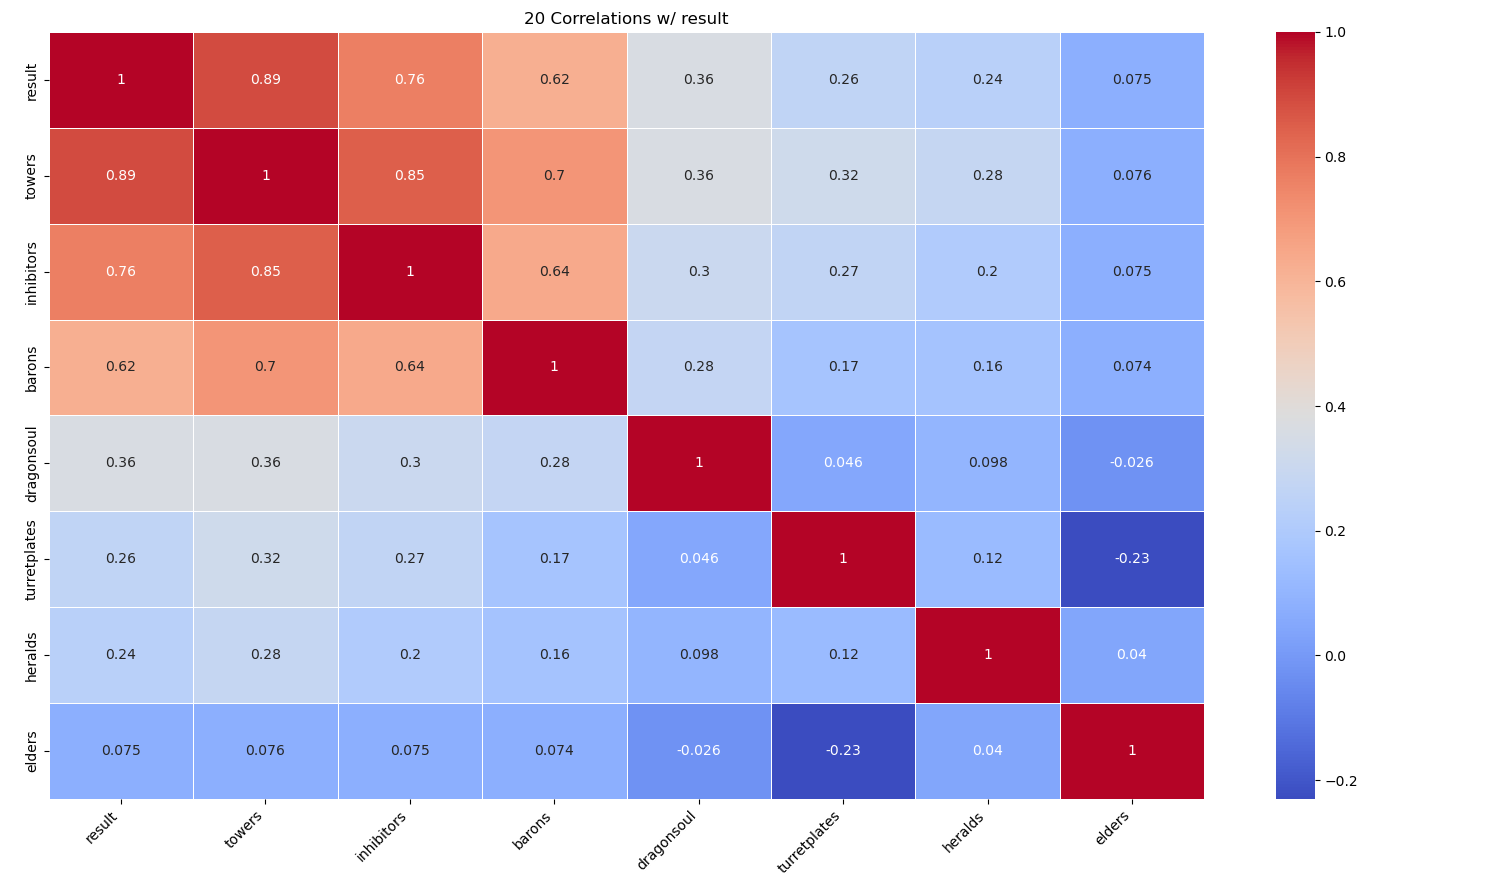
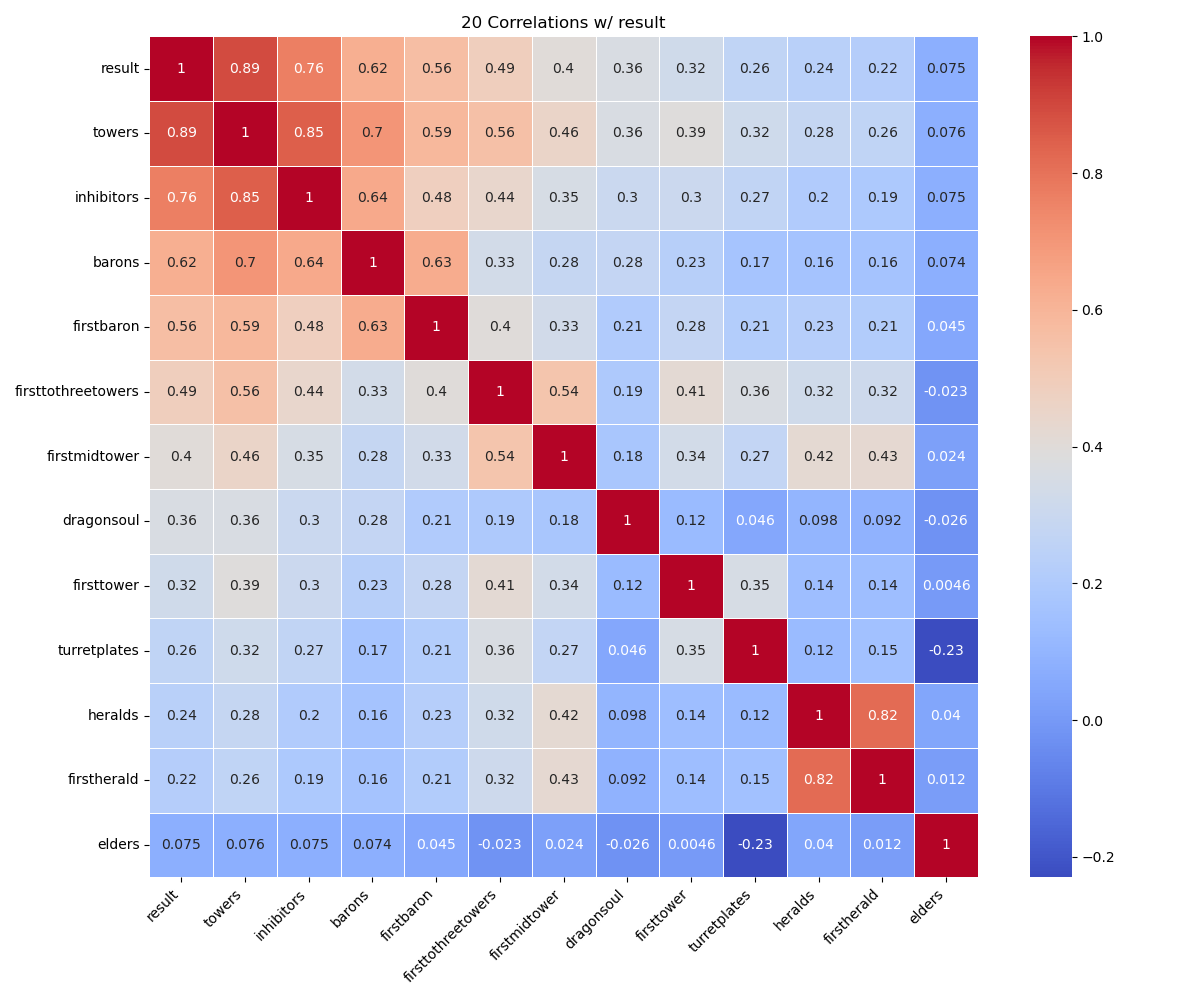
Improved obj diff feature and experimented with a weighted rolling avg

diff --git a/FeatureEng.py b/FeatureEng.py
@@ -27,6 +27,54 @@ teamdf['recent_form'] = (
       .transform(lambda x: x.shift(1).rolling(window=5).mean()))
 teamdf['recent_form'] = teamdf['recent_form'].fillna(teamdf['result'])
 
+'''teamdf['date'] = pd.to_datetime(teamdf['date'])
+teamdf = teamdf.sort_values(['teamname', 'date'])
+
+def weighted_rolling_mean(result_series, gspd_series, window=5):
+    weighted_avgs = []
+    
+    for idx in range(len(result_series)):
+        start_idx = max(0, idx - window)
+        result_window = result_series[start_idx:idx]
+        gspd_window = gspd_series[start_idx:idx]
+        
+        if len(result_window) == 0:
+            weighted_avgs.append(np.nan)
+        else:
+            weights = np.abs(gspd_window) + 1e-6
+            weighted_avg = np.average(result_window, weights=weights)
+            weighted_avgs.append(weighted_avg)
+    
+    return pd.Series(weighted_avgs, index=result_series.index)
+
+teamdf['recent_form'] = (
+    teamdf.groupby('teamname')
+          .apply(lambda group: weighted_rolling_mean(
+              group['result'].shift(1),
+              group['gspd'].shift(1),
+              window=5))
+          .reset_index(level=0, drop=True)
+)
+
+gspd_max = teamdf['gspd'].abs().max()
+
+def adjusted_result(row):
+    scale = row['gspd'] / gspd_max
+    return 0.5 + 0.5 * scale
+
+teamdf['recent_form'] = teamdf['recent_form'].fillna(
+    teamdf.apply(adjusted_result, axis=1)
+)
+
+
+teamdf['recent_form'].describe()
+
+test = teamdf['result'].corr(teamdf['recent_form'])
+print(test)
+
+0.466 with adjusted weights
+0.752 without adjusted weights'''
+
 # multikills metric
 teamdf['weighted_multikill'] = (
     1 * teamdf['doublekills'] +
@@ -34,20 +82,6 @@ teamdf['weighted_multikill'] = (
     3 * teamdf['quadrakills'] +
     4 * teamdf['pentakills']
 )
-
-
-# adjust obj control metric to look at if a team gets soul or not rather than number of dragons
-teamdf['dragonsoul'] = (teamdf['dragons'] == 4).astype(int)
-teamdf['weighted_objective_diff'] = (
-    (teamdf['dragonsoul']) * 3 + 
-    (teamdf['elders'] - teamdf['opp_elders']) * 3 +
-    (teamdf['barons'] - teamdf['opp_barons']) * 2 +
-    (teamdf['heralds'] - teamdf['opp_heralds']) +
-    (teamdf['towers'] - teamdf['opp_towers']) +
-    (teamdf['turretplates'] - teamdf['opp_turretplates']) +
-    (teamdf['inhibitors'] - teamdf['opp_inhibitors'])
-)
-
 
 # game state at 10/15
 substring = 'at15'
@@ -116,7 +150,7 @@ scaled_df['gamestateat15'] = (scaled_df['golddiffat15'] +
 # what if you scaled everything and recalculated? would there be a significant difference?
 teamdf['dragonsoul'] = (teamdf['dragons'] == 4).astype(int)
 
-temp_binary_columns = ['dragonsoul'] #next add first to three towers, first mid tower, etc.
+temp_binary_columns = ['dragonsoul', 'firsttothreetowers', 'firstmidtower', 'firsttower', 'firstherald', 'firstbaron'] 
 continuous_columns = [col for col in teamdf.select_dtypes('number').columns if col not in temp_binary_columns]
 
 scaler = StandardScaler()
@@ -132,23 +166,33 @@ weights = {
     'inhibitors': 0.76,
     'heralds': 0.24,
     'towers': 0.89,
-    'turretplates': 0.26
+    'turretplates': 0.26,
+    'firsttothreetowers': 0.49,
+    'firstmidtower': 0.40,
+    'firsttower': 0.32,
+    'firstbaron': 0.56,
+    'firstherald': 0.22
 }
 
 # Create weighted objective difference
 scaled_df['weighted_objective_diff'] = (
+    #(weights['firstmidtower'] * scaled_df['firstmidtower']) +
+    #(weights['firsttothreetowers'] * scaled_df['firsttothreetowers']) +
+    #(weights['firsttower'] * scaled_df['firsttower']) +
+    (weights['firstbaron'] * scaled_df['firstbaron']) +
+    #(weights['firstherald'] * scaled_df['firstherald']) +
     (weights['dragonsoul'] * scaled_df['dragonsoul']) +
     (weights['elders'] * (scaled_df['elders'] - scaled_df['opp_elders'])) +
     (weights['barons'] * (scaled_df['barons'] - scaled_df['opp_barons'])) +
-    (weights['heralds'] * (scaled_df['heralds'] - scaled_df['opp_heralds'])) +
+    #(weights['heralds'] * (scaled_df['heralds'] - scaled_df['opp_heralds'])) +
     (weights['towers'] * (scaled_df['towers'] - scaled_df['opp_towers'])) +
-    (weights['turretplates'] * (scaled_df['turretplates'] - scaled_df['opp_turretplates'])) +
+    #(weights['turretplates'] * (scaled_df['turretplates'] - scaled_df['opp_turretplates'])) +
     (weights['inhibitors'] * (scaled_df['inhibitors'] - scaled_df['opp_inhibitors']))
 )
 teamdf['weighted_objective_diff'] = scaled_df['weighted_objective_diff']
 
-selected_columns = ['dragonsoul', 'elders', 'barons', 'heralds', 'towers', 'turretplates', 'inhibitors', 'result']
-
+# for visualizing corr to adjust weights
+selected_columns = ['firstherald', 'firstbaron', 'firsttower', 'dragonsoul', 'firsttothreetowers', 'firstmidtower', 'elders', 'barons', 'heralds', 'towers', 'turretplates', 'inhibitors', 'result']
 target = 'result'
 top_n = 20
 corr_matrix = teamdf[selected_columns].corr(numeric_only=True)
@@ -170,7 +214,7 @@ plt.title(f'{top_n} Correlations w/ {target}')
 plt.tight_layout()
 plt.show()
 
-#______________
+# for visualizing corr after adding features
 target = 'result'
 top_n = 20
 corr_matrix = teamdf.corr(numeric_only=True)
@@ -191,3 +235,4 @@ plt.yticks(fontsize=10)
 plt.title(f'{top_n} Correlations w/ {target}')
 plt.tight_layout()
 plt.show()
+
